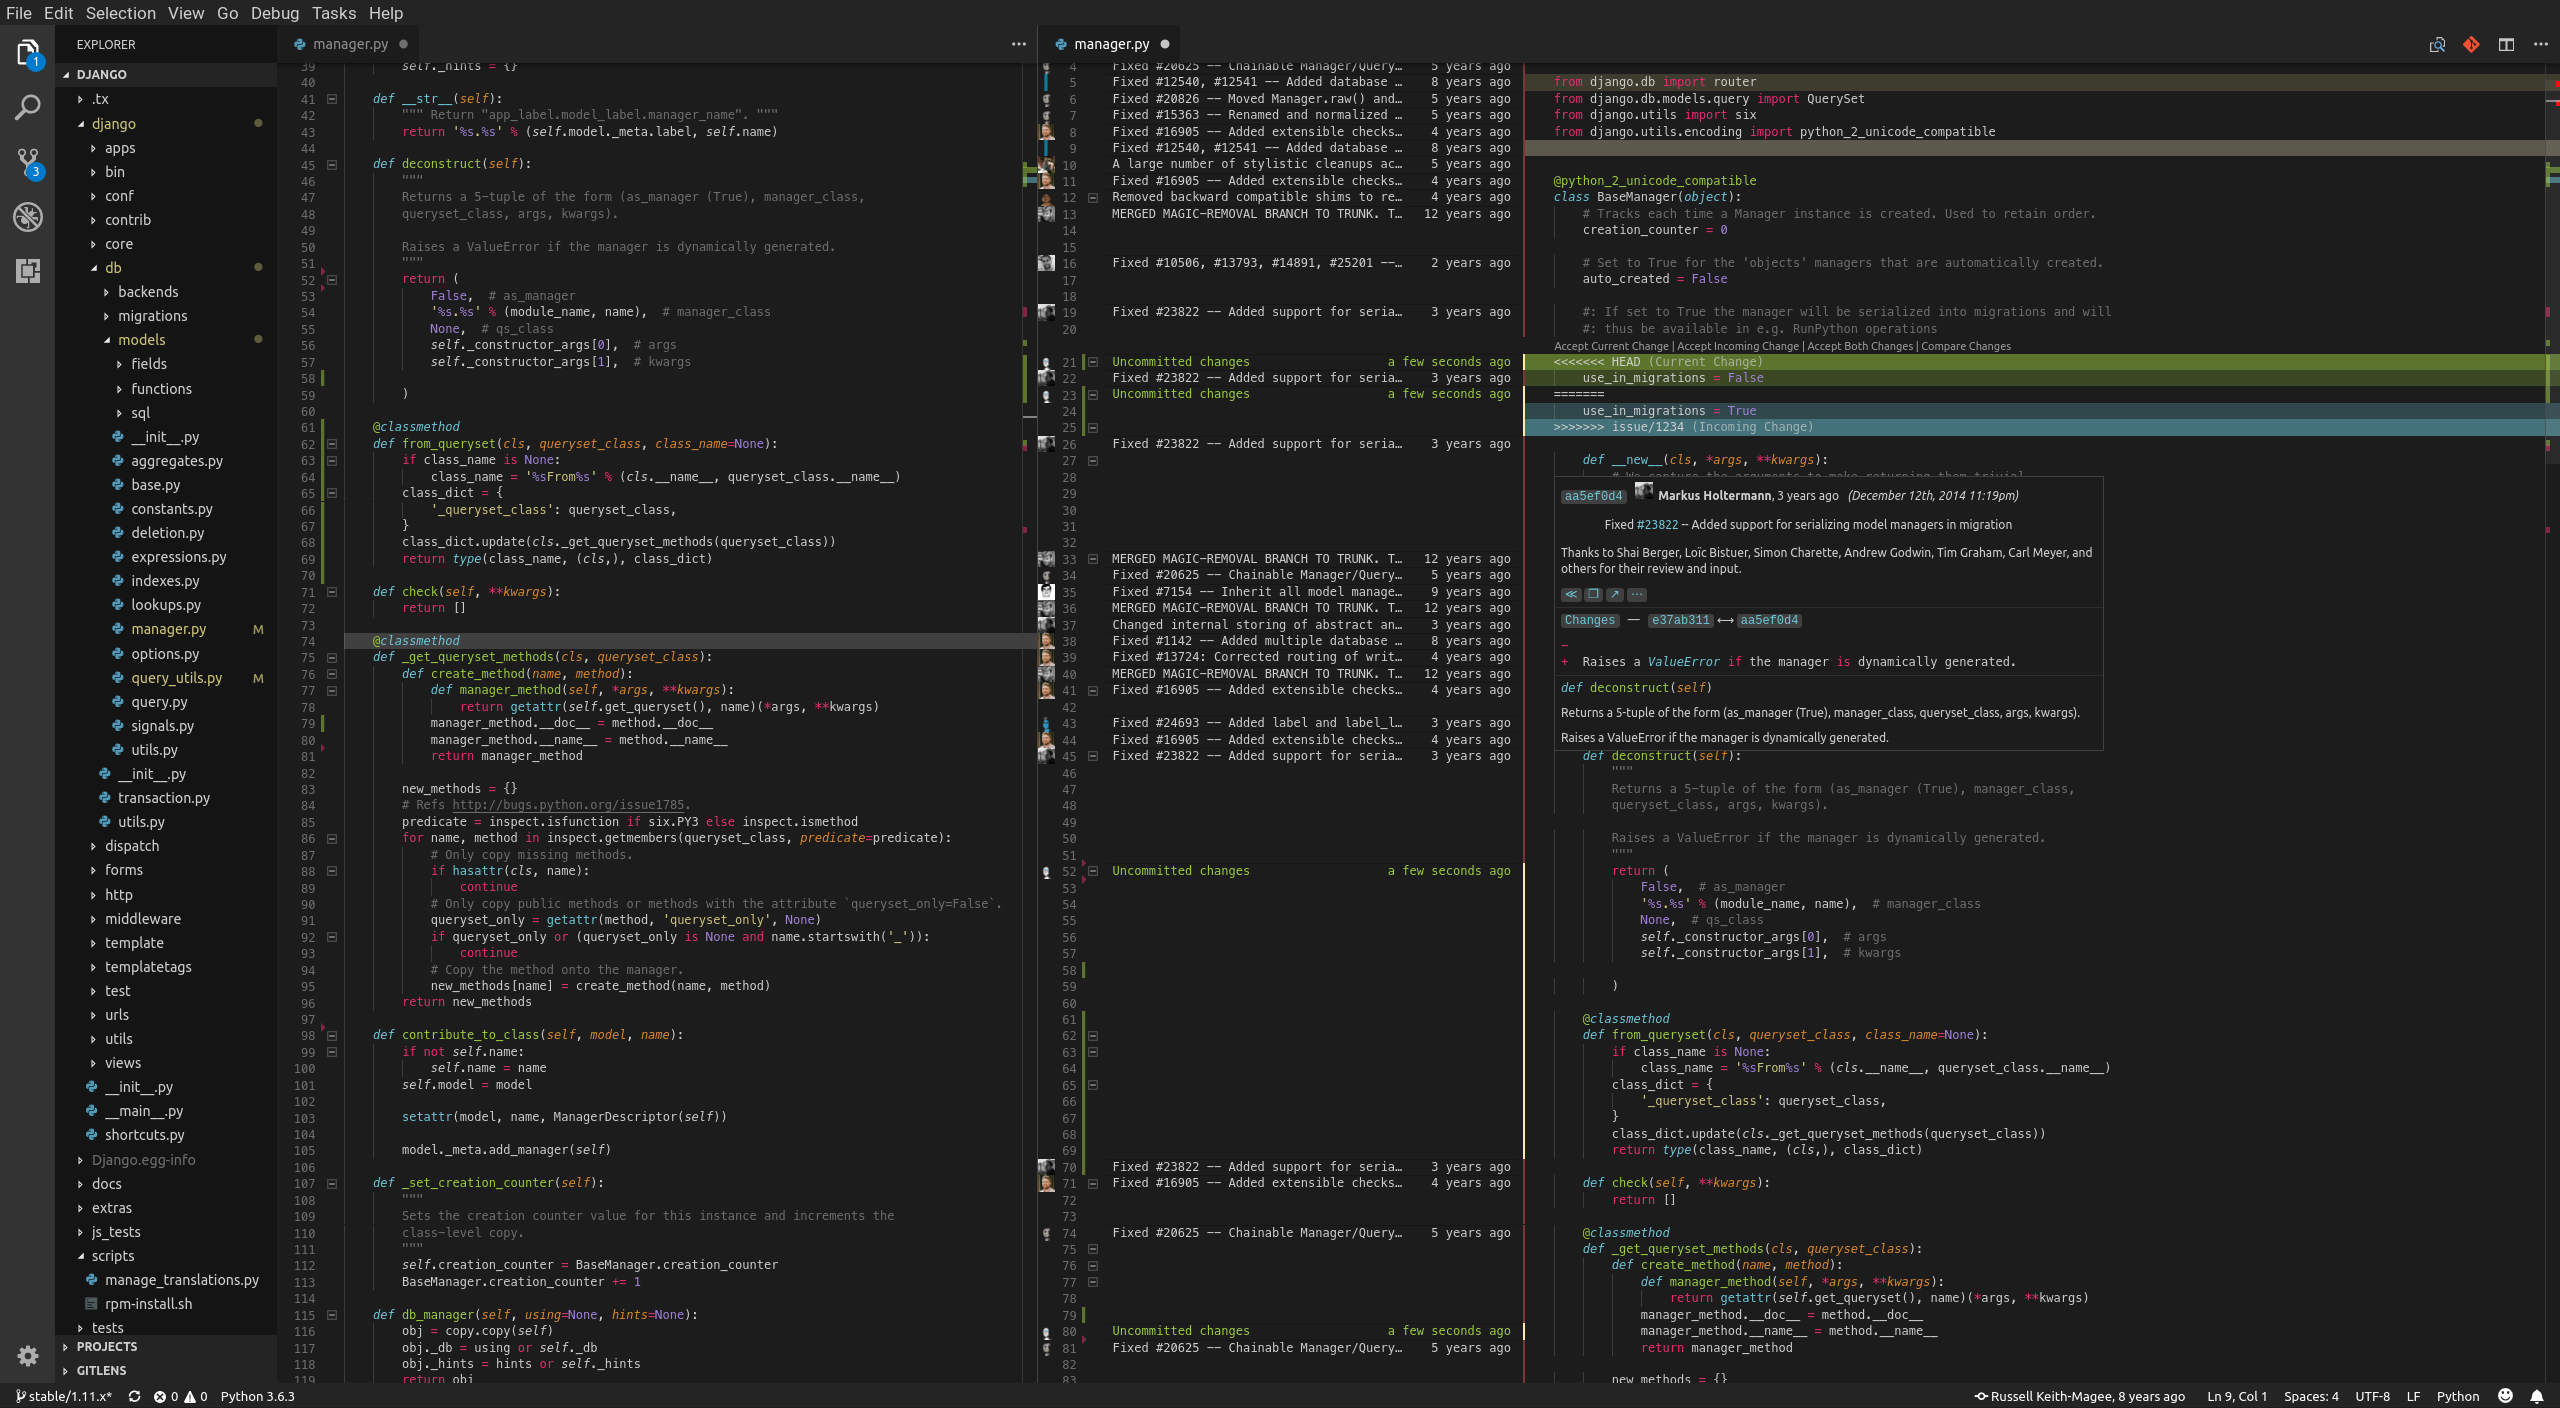
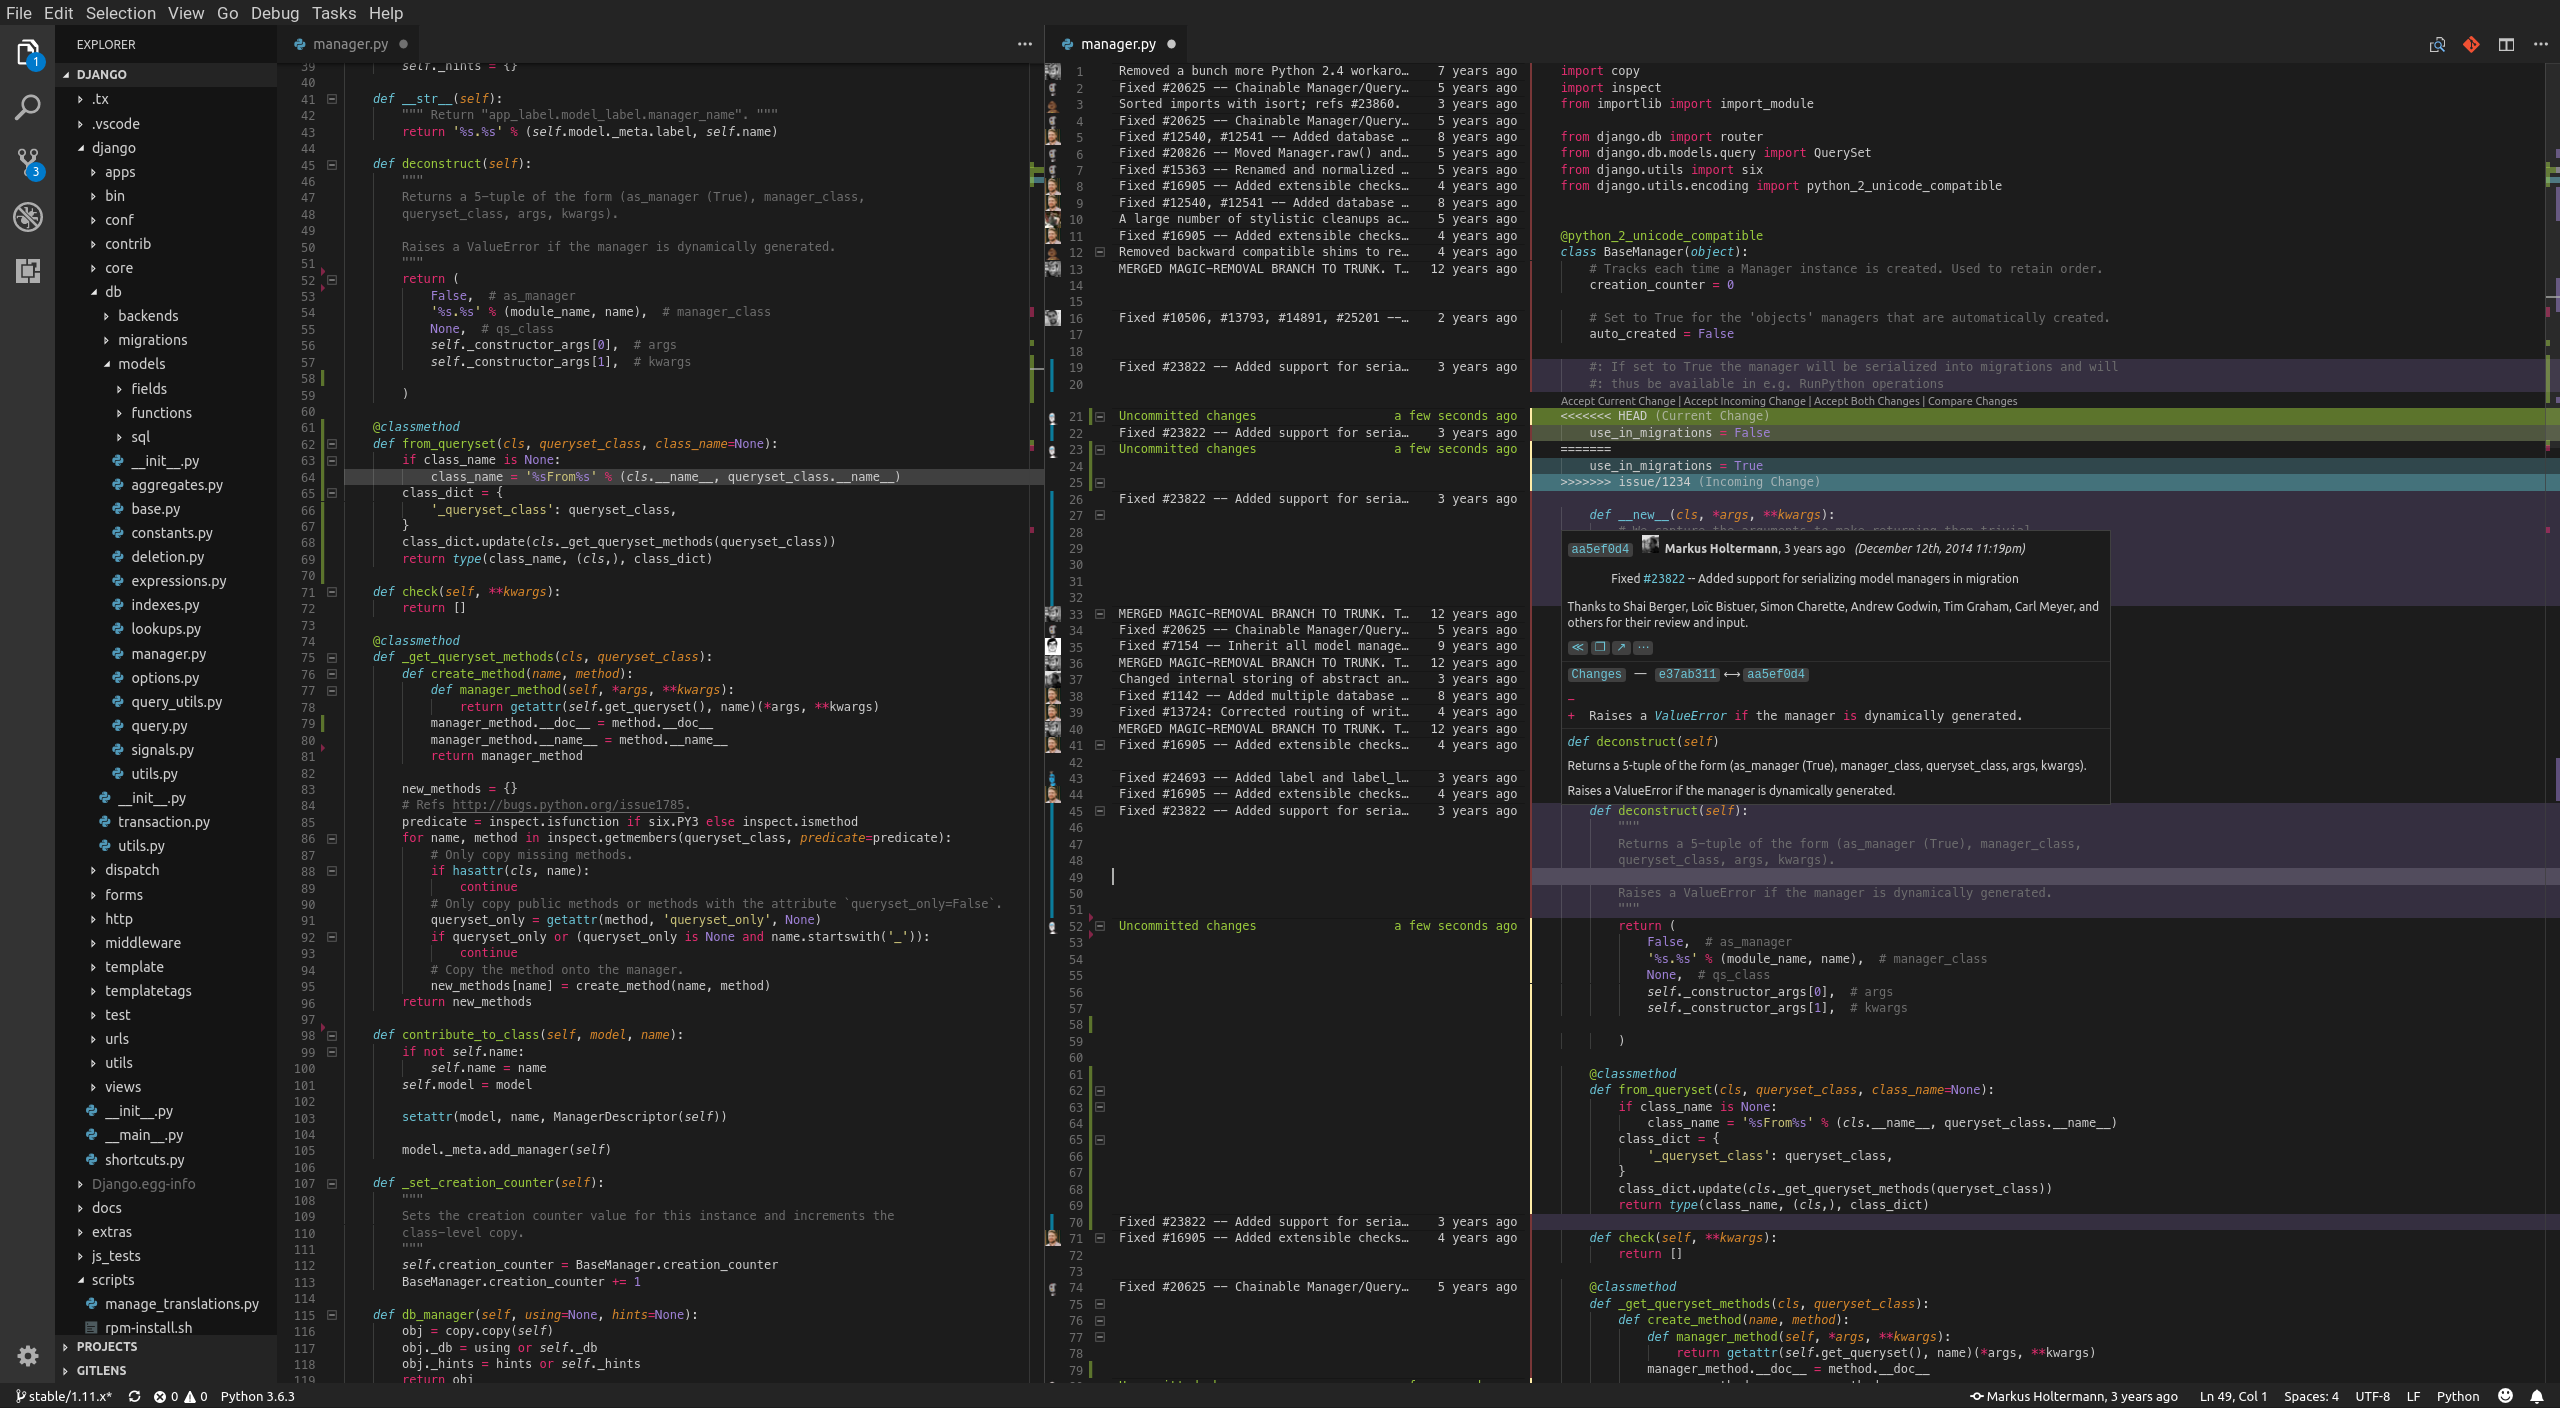
Bumped version to 1.0.3.
* Added `"gitlens.lineHighlightOverviewRulerColor"` support.
* Changed GitLens highlight color to purple.
* Updated screenshot.

diff --git a/README.md b/README.md
@@ -33,8 +33,6 @@ The following settings are untested and will therefore show a red color:
 "gitlens.trailingLineBackgroundColor": "untested",
 // Specifies the foreground color of the trailing blame annotation
 "gitlens.trailingLineForegroundColor": "untested",
-// Specifies the overview ruler color of the associated line highlights in blame annotations
-"gitlens.lineHighlightOverviewRulerColor": "untested"
 ```
 
 ## Contributing

diff --git a/CHANGELOG.md b/CHANGELOG.md
@@ -7,6 +7,14 @@ and this project adheres to [Semantic Versioning](http://semver.org/spec/v2.0.0.
 
 ## [Unreleased]
 
+## [1.0.3] - 2018-05-01
+
+### Added
+- `"gitlens.lineHighlightOverviewRulerColor"` support.
+
+### Changed
+- GitLens highlight color to purple.
+
 ## [1.0.2] - 2018-05-01
 
 ### Added
